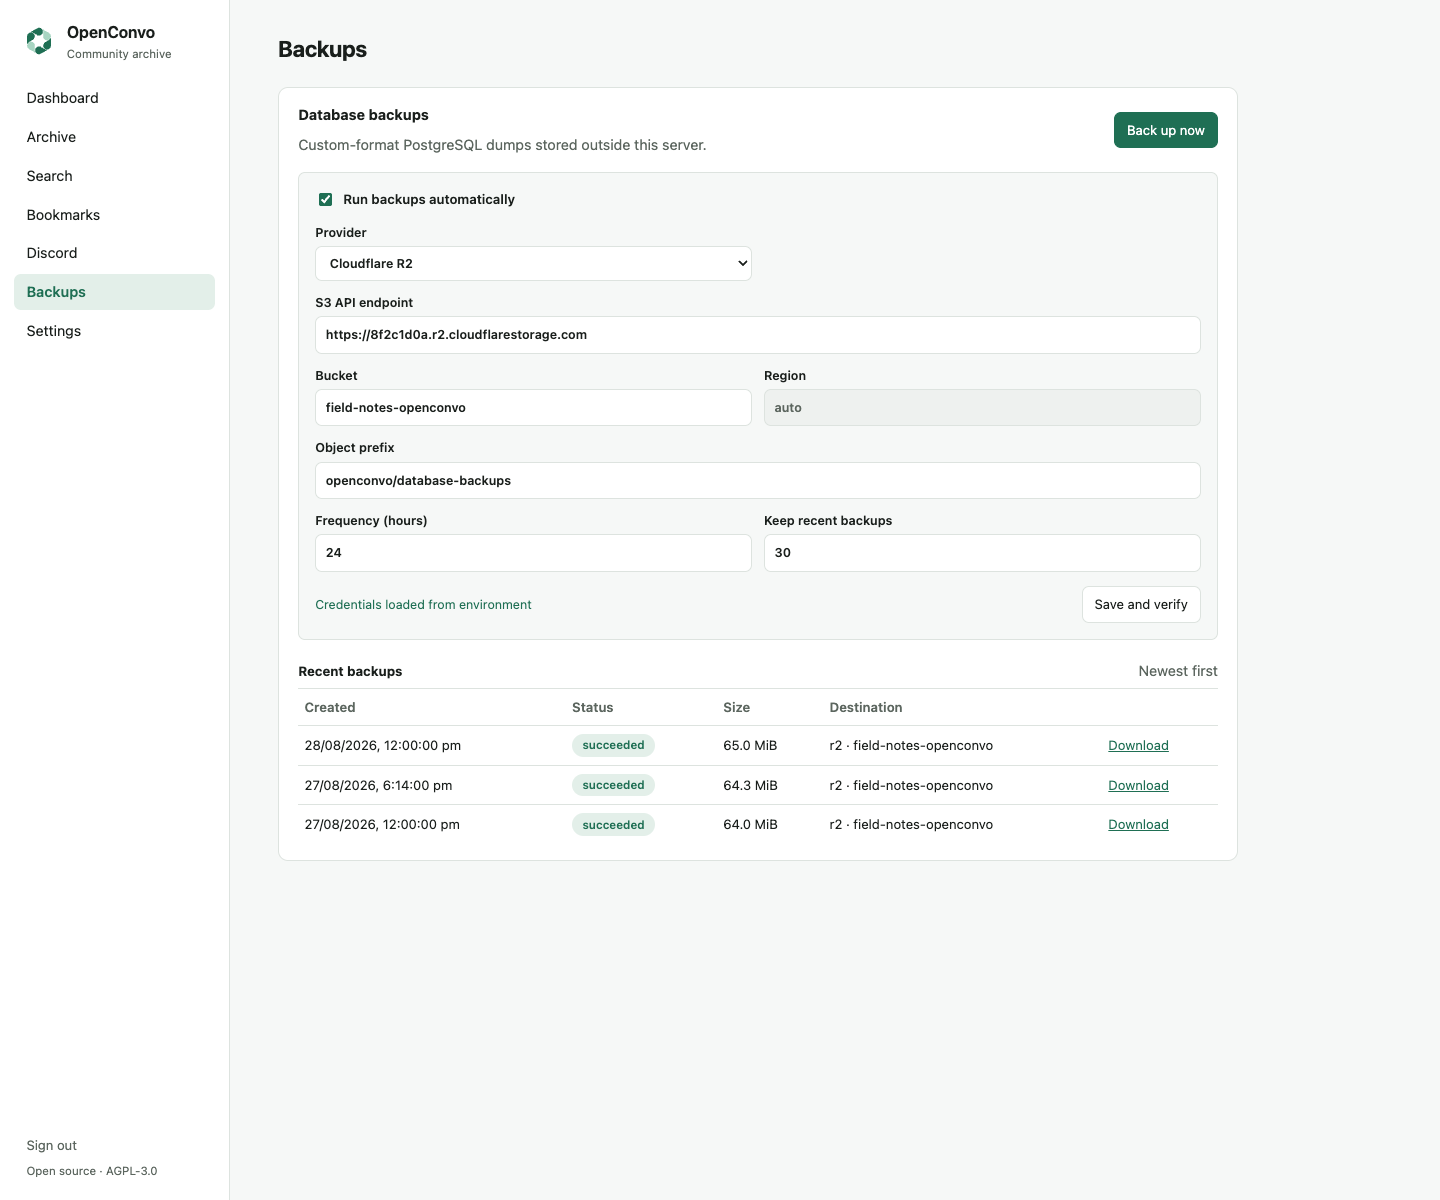
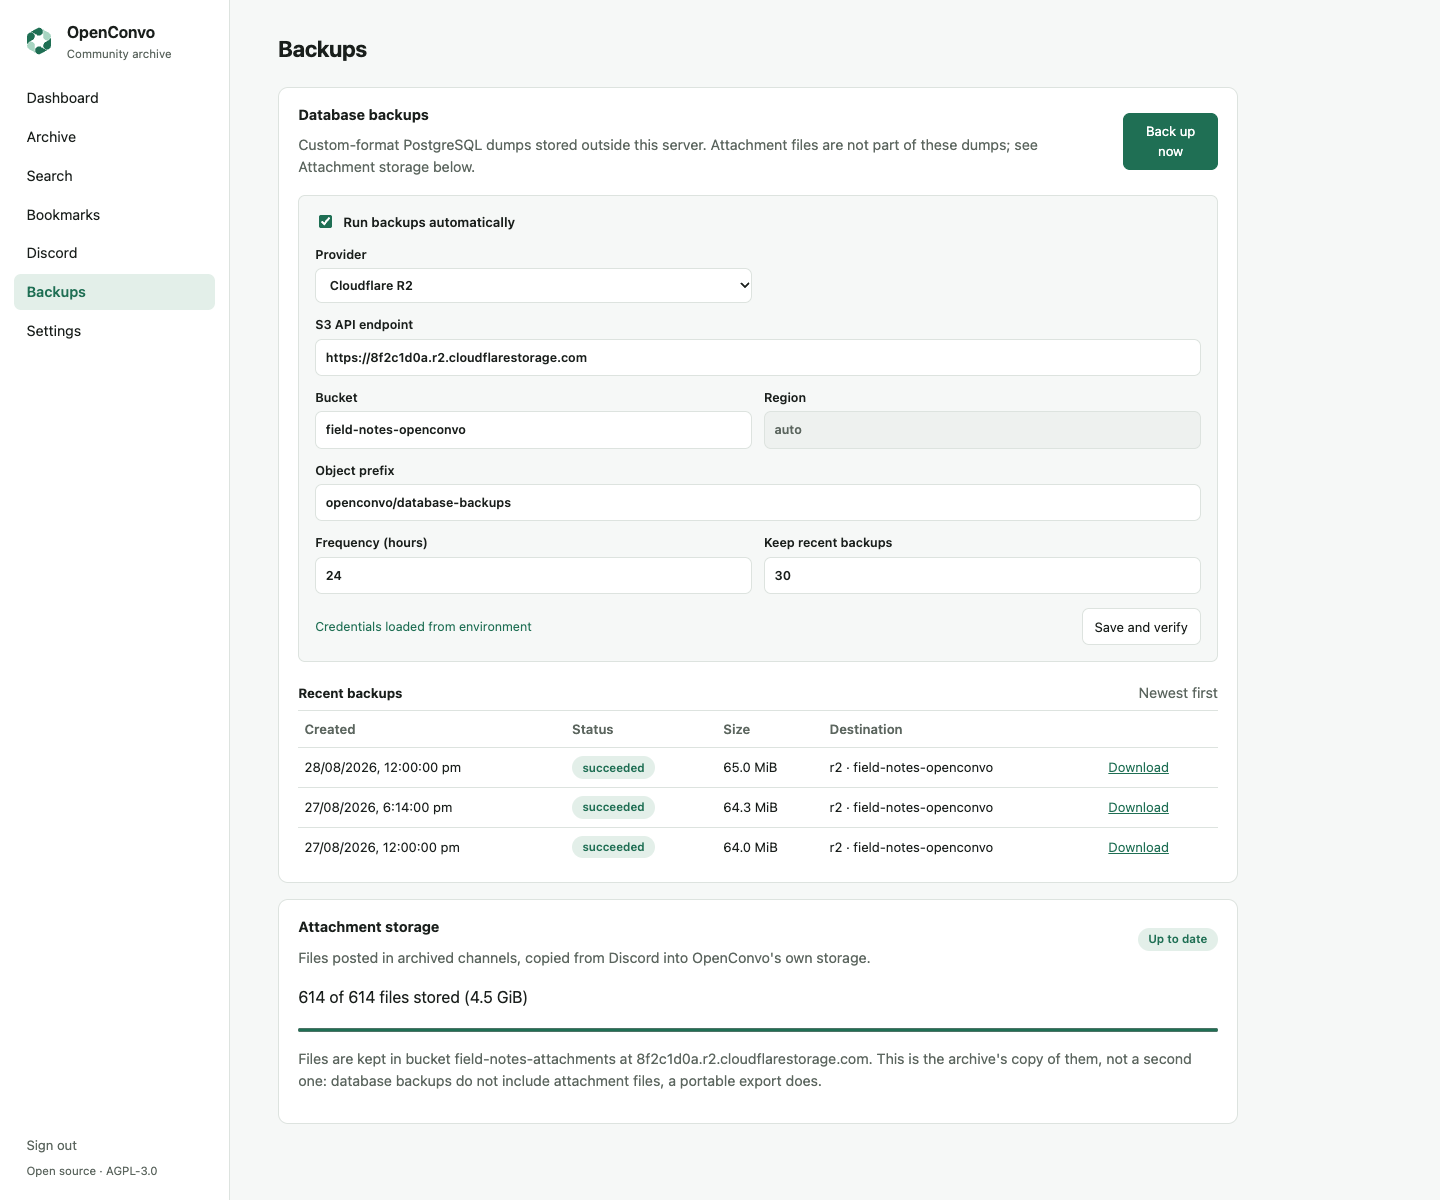
Regenerate the dashboard and Backups screenshots
The dashboard no longer has an attachment card and the Backups page has
the new Attachment storage section. The synthetic status gains a storage
location so the section shows where files are kept.

diff --git a/docs/self-hosting.md b/docs/self-hosting.md
@@ -104,7 +104,7 @@ Open the address the installer prints. The dashboard shows system status;
 `docker compose exec openconvo openconvo status` shows the same from the
 terminal.
 
-![OpenConvo dashboard showing archive totals, attachment storage, channel sync progress and service health](images/dashboard.png)
+![OpenConvo dashboard showing archive totals, channel sync progress and service health](images/dashboard.png)
 
 The screenshots in this guide use fictional, synthetic community data.
 
@@ -565,7 +565,7 @@ backups. R2 uses an endpoint of the form
 checks bucket access before enabling the schedule. Credentials never enter the
 browser or database; changing them requires editing `.env` and restarting.
 
-![OpenConvo Backups page showing an R2 destination, retention settings and successful backup history](images/backups.png)
+![OpenConvo Backups page showing an R2 destination, retention settings, successful backup history and attachment storage](images/backups.png)
 
 Each run creates a PostgreSQL custom-format dump with `pg_dump`, computes its
 SHA-256, uploads it with a known content length, verifies the remote object
